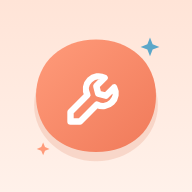
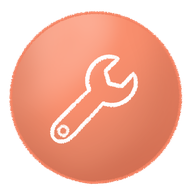
Add files via upload

diff --git a/index.html b/index.html
@@ -10,6 +10,7 @@
 <meta property="og:description" content="작업하면서, 게임하면서, 생활하면서 필요해서 만든 작은 프로그램들">
 <meta property="og:image" content="https://dalyeoneo-cmd.github.io/tools/icons/tools-icon-512.png">
 <meta name="theme-color" content="#FFE4D7">
+<link rel="icon" href="icons/favicon.ico" sizes="any">
 <link rel="icon" href="icons/tools-icon-192.png" type="image/png">
 <link rel="apple-touch-icon" href="icons/tools-icon-180.png">
 <link rel="stylesheet" href="https://fonts.googleapis.com/css2?family=IBM+Plex+Sans+KR:wght@400;500;600;700&display=swap">
@@ -29,7 +30,7 @@ body{min-height:100vh}
 body{margin:0;background:linear-gradient(180deg,var(--bg-top) 0,var(--bg) 340px) var(--bg);background-attachment:scroll;color:var(--ink);font-family:var(--font);font-size:15px;line-height:1.6}
 .wrap{max-width:560px;margin:0 auto;padding-block:max(40px,env(safe-area-inset-top,0px)) max(40px,env(safe-area-inset-bottom,0px));padding-left:max(18px,env(safe-area-inset-left,0px));padding-right:max(18px,env(safe-area-inset-right,0px));display:flex;flex-direction:column;gap:28px}
 header{display:flex;flex-direction:column;align-items:center;text-align:center;gap:10px}
-.mark{width:72px;height:72px;border-radius:50% 50% 50% 50%/60% 60% 40% 40%;background:linear-gradient(135deg,var(--coral-2),var(--coral));display:grid;place-items:center;box-shadow:0 12px 26px rgb(240 122 90/.35)}
+.mark{width:72px;height:72px;display:block;filter:drop-shadow(0 10px 18px rgb(240 122 90/.35))}
 .mark svg{width:38px;height:38px;color:#fff}
 h1{margin:6px 0 0;font-size:26px;font-weight:700;letter-spacing:-.01em;text-wrap:balance}
 .intro{margin:0;color:var(--muted);font-size:14.5px;max-width:34ch}
@@ -60,7 +61,7 @@ footer a:hover{text-decoration:underline}
 <body>
 <div class="wrap">
   <header>
-    <div class="mark" aria-hidden="true"><svg viewBox="0 0 24 24" fill="none" stroke="currentColor" stroke-width="1.8" stroke-linecap="round" stroke-linejoin="round"><path d="M14.7 6.3a4 4 0 0 0-5.4 5.4L4 17v3h3l5.3-5.3a4 4 0 0 0 5.4-5.4l-2.6 2.6-2.4-.6-.6-2.4z"/></svg></div>
+    <img class="mark" src="icons/tools-icon-192.png" alt="" width="72" height="72">
     <h1>달연어의 작은 도구들</h1>
     <p class="intro">작업하면서, 게임하면서, 생활하면서 “이런 게 있으면 좋겠다” 싶어서 만든 것들을 모아 두는 곳이에요.</p>
     <span class="count" id="count"></span>

diff --git a/README.md b/README.md
@@ -1,0 +1,71 @@
+<h1 align="center">달연어의 작은 도구들</h1>
+
+<p align="center">
+  작업하면서, 게임하면서, 생활하면서<br>
+  "이런 게 있으면 좋겠다" 싶어서 만든 무료 도구들을 모아 두는 곳이에요.
+</p>
+
+<p align="center">
+  <a href="https://dalyeoneo-cmd.github.io/tools/"><b>▶ 도구 모음 열기</b></a>
+  &nbsp;·&nbsp;
+  <a href="https://www.instagram.com/dosalmon_ovo/">@dosalmon_ovo</a>
+</p>
+
+<br>
+
+## 도구 목록
+
+| 도구 | 하는 일 | 주소 |
+| :-- | :-- | :-- |
+| **캔버스 설치 시뮬레이터** | 캔버스 호수를 바로 찾아보고, 전시 벽면에 작품을 어떻게 걸지 설치 시안을 미리 만들어 봐요 | [canvas-ho](https://dalyeoneo-cmd.github.io/canvas-ho/) |
+| **우리 섬 주민 등록부** | 모여봐요 동물의 숲 주민이 섬에 오고, 함께 지내고, 떠나기까지를 기록해요 | [animal_registration](https://dalyeoneo-cmd.github.io/animal_registration/) |
+
+모든 도구는 무료이고, 로그인 없이 휴대폰·패드·PC에서 쓸 수 있어요.
+
+<br>
+
+## 새 도구 추가하는 법
+
+`index.html` 아래쪽 `PROJECTS` 목록 맨 위에 한 덩어리를 복사해서 넣으면 돼요.
+
+```js
+{
+  name: "도구 이름",
+  desc: "한 줄 설명",
+  url: "https://dalyeoneo-cmd.github.io/저장소이름/",
+  icon: "https://dalyeoneo-cmd.github.io/저장소이름/icons/icon-192.png",
+  tags: ["분류", "휴대폰 · 패드 · PC"],
+  added: "2026-11-04"
+},
+```
+
+`added` 날짜가 30일 안이면 NEW 표시가 자동으로 붙어요.
+
+<br>
+
+## 만든 사람
+
+**달연어 (Dal Yeon-eo)** · 인스타그램 [@dosalmon_ovo](https://www.instagram.com/dosalmon_ovo/)
+
+© 2026 달연어 (Dal Yeon-eo)
+
+<br>
+
+## 라이선스
+
+[![CC BY-NC-SA 4.0](https://img.shields.io/badge/License-CC%20BY--NC--SA%204.0-lightgrey.svg)](https://creativecommons.org/licenses/by-nc-sa/4.0/deed.ko)
+
+이 페이지는 **CC BY-NC-SA 4.0** 라이선스로 공개해요. 달연어가 직접 만든 코드, 디자인, 글이 포함돼요.
+
+| 조건 | 뜻 |
+| :-- | :-- |
+| **출처 표시** | 쓰거나 공유할 때 만든 사람(달연어)과 원본 주소를 꼭 밝혀주세요 |
+| **비영리** | 판매나 유료 서비스처럼 돈을 버는 데에는 쓸 수 없어요 |
+| **동일조건** | 고쳐서 공유할 때는 같은 라이선스로 공유해주세요 |
+
+- 목록에 있는 각 도구는 그 도구 저장소의 LICENSE를 따라요.
+- 이 페이지의 렌치 아이콘은 달연어가 직접 그린 그림이라 이 라이선스에 포함돼요.
+- 목록에 보이는 각 도구의 아이콘은 AI 이미지 생성 도구를 활용해 만든 것이라 이 라이선스 대상에서 빠져요.
+- 글꼴(IBM Plex Sans KR)은 SIL OFL 1.1을 따라요. [THIRD_PARTY_NOTICES.txt](THIRD_PARTY_NOTICES.txt)에 정리했어요.
+
+비영리인지 애매하거나 다른 방식으로 쓰고 싶으면 [@dosalmon_ovo](https://www.instagram.com/dosalmon_ovo/)로 물어봐 주세요. 자세한 내용은 [LICENSE](LICENSE) 파일을 보세요.
